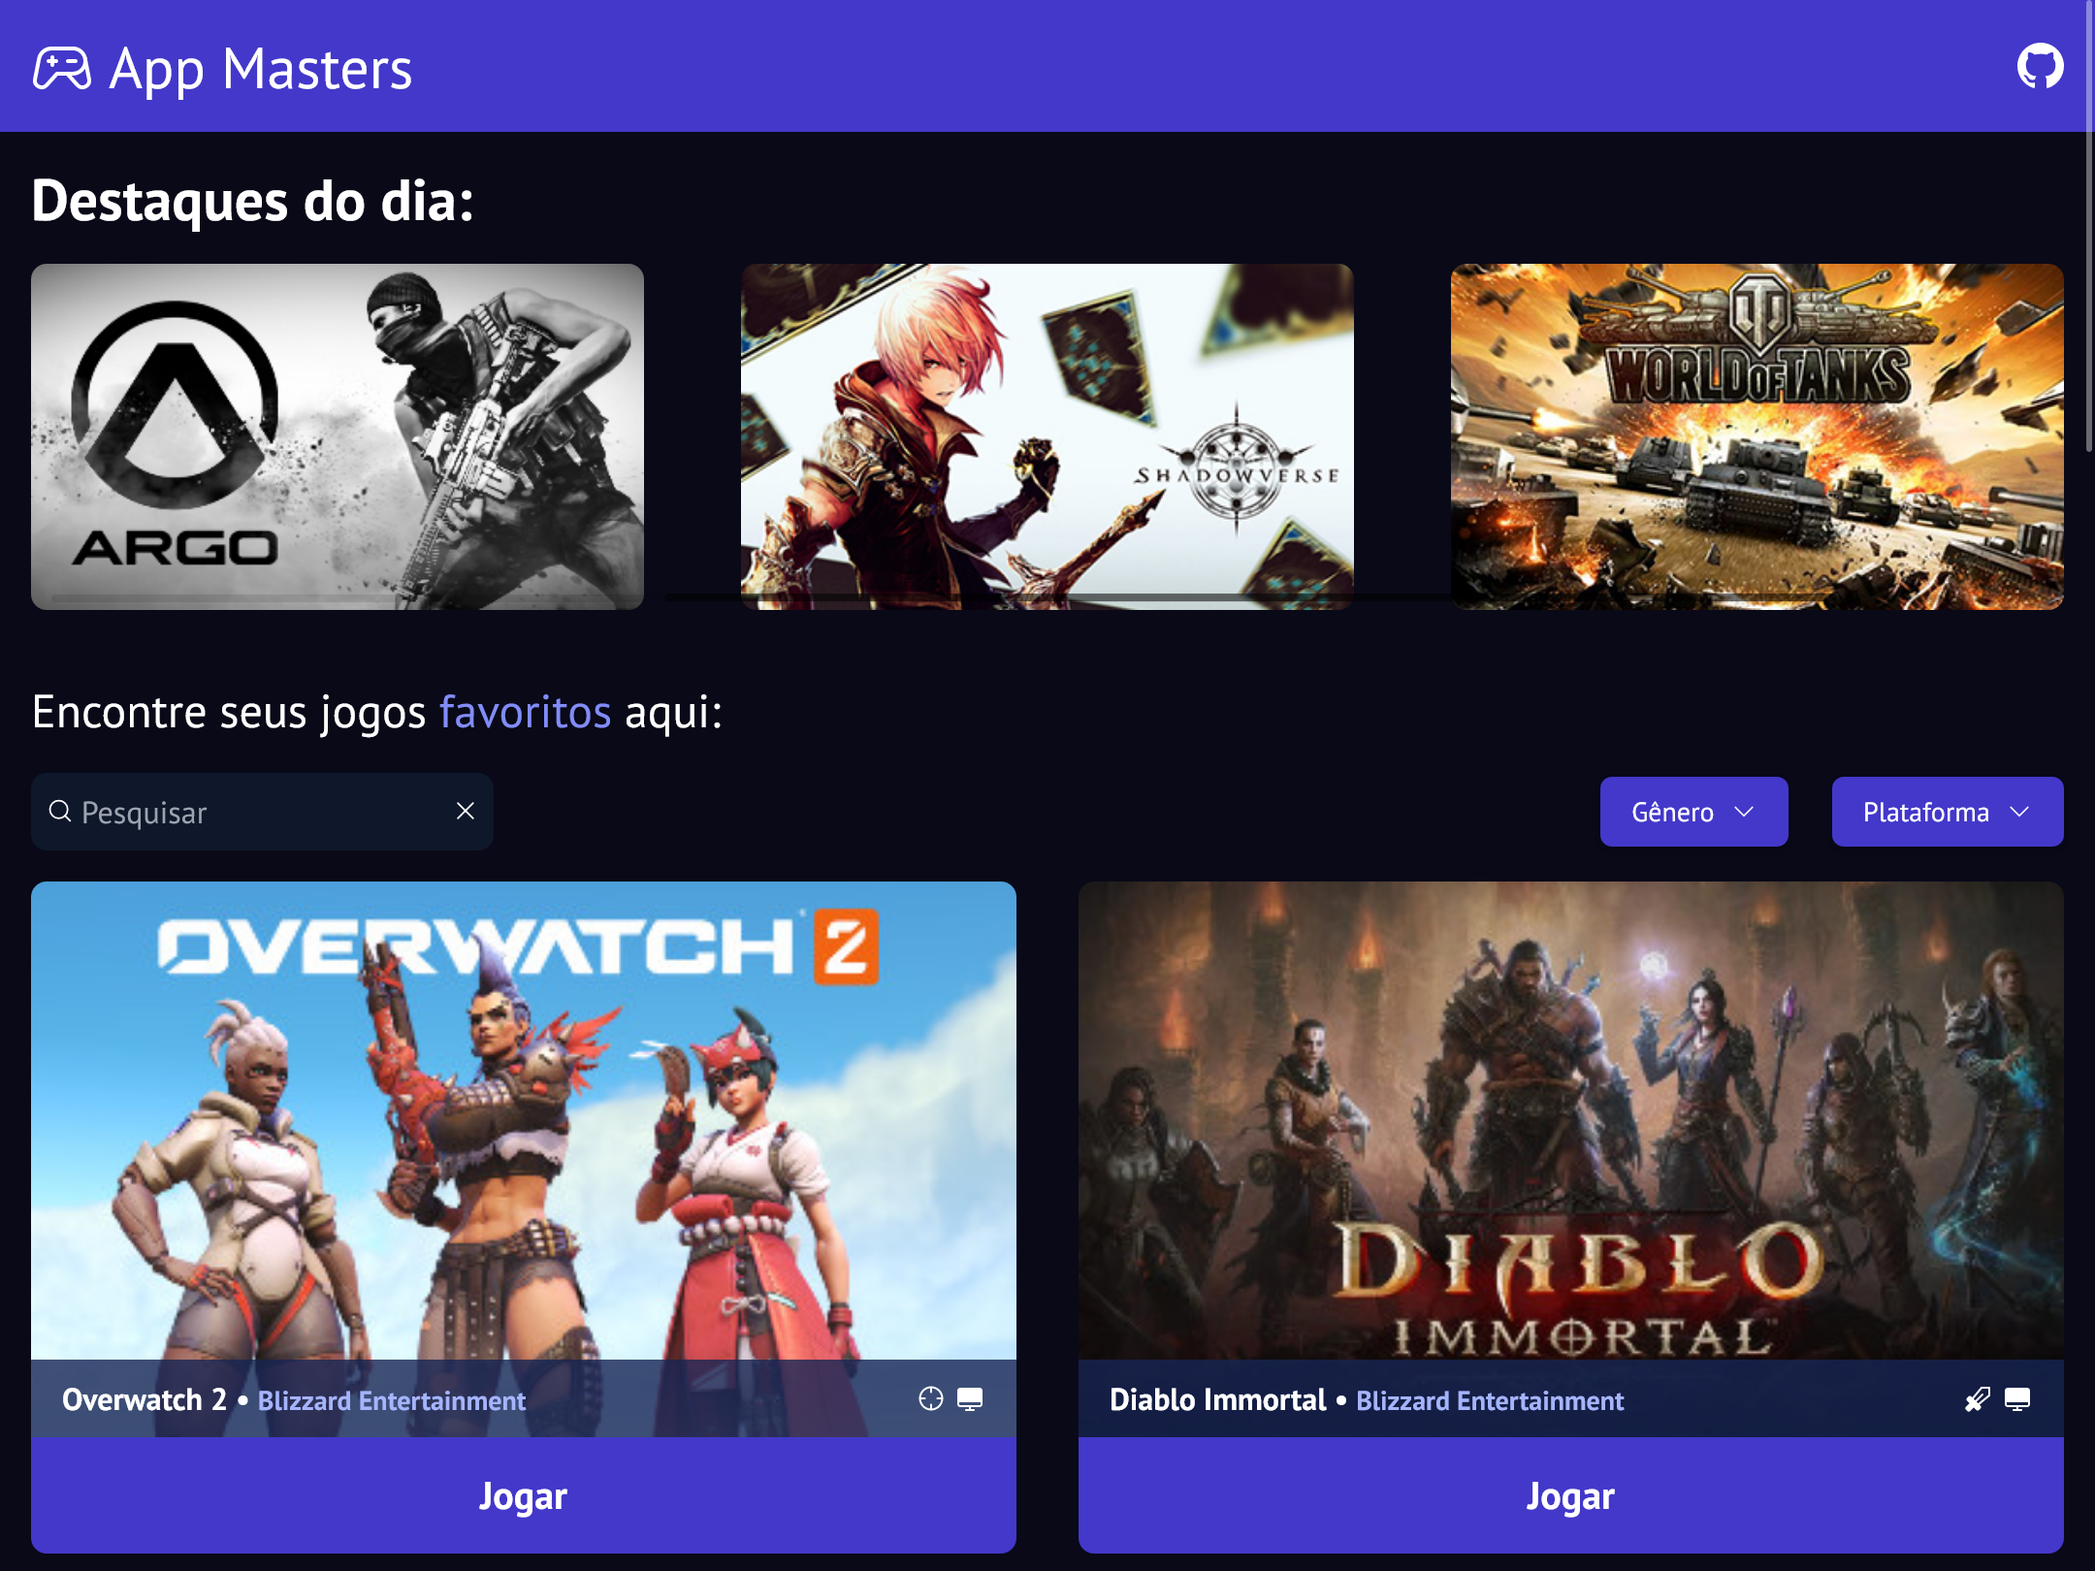
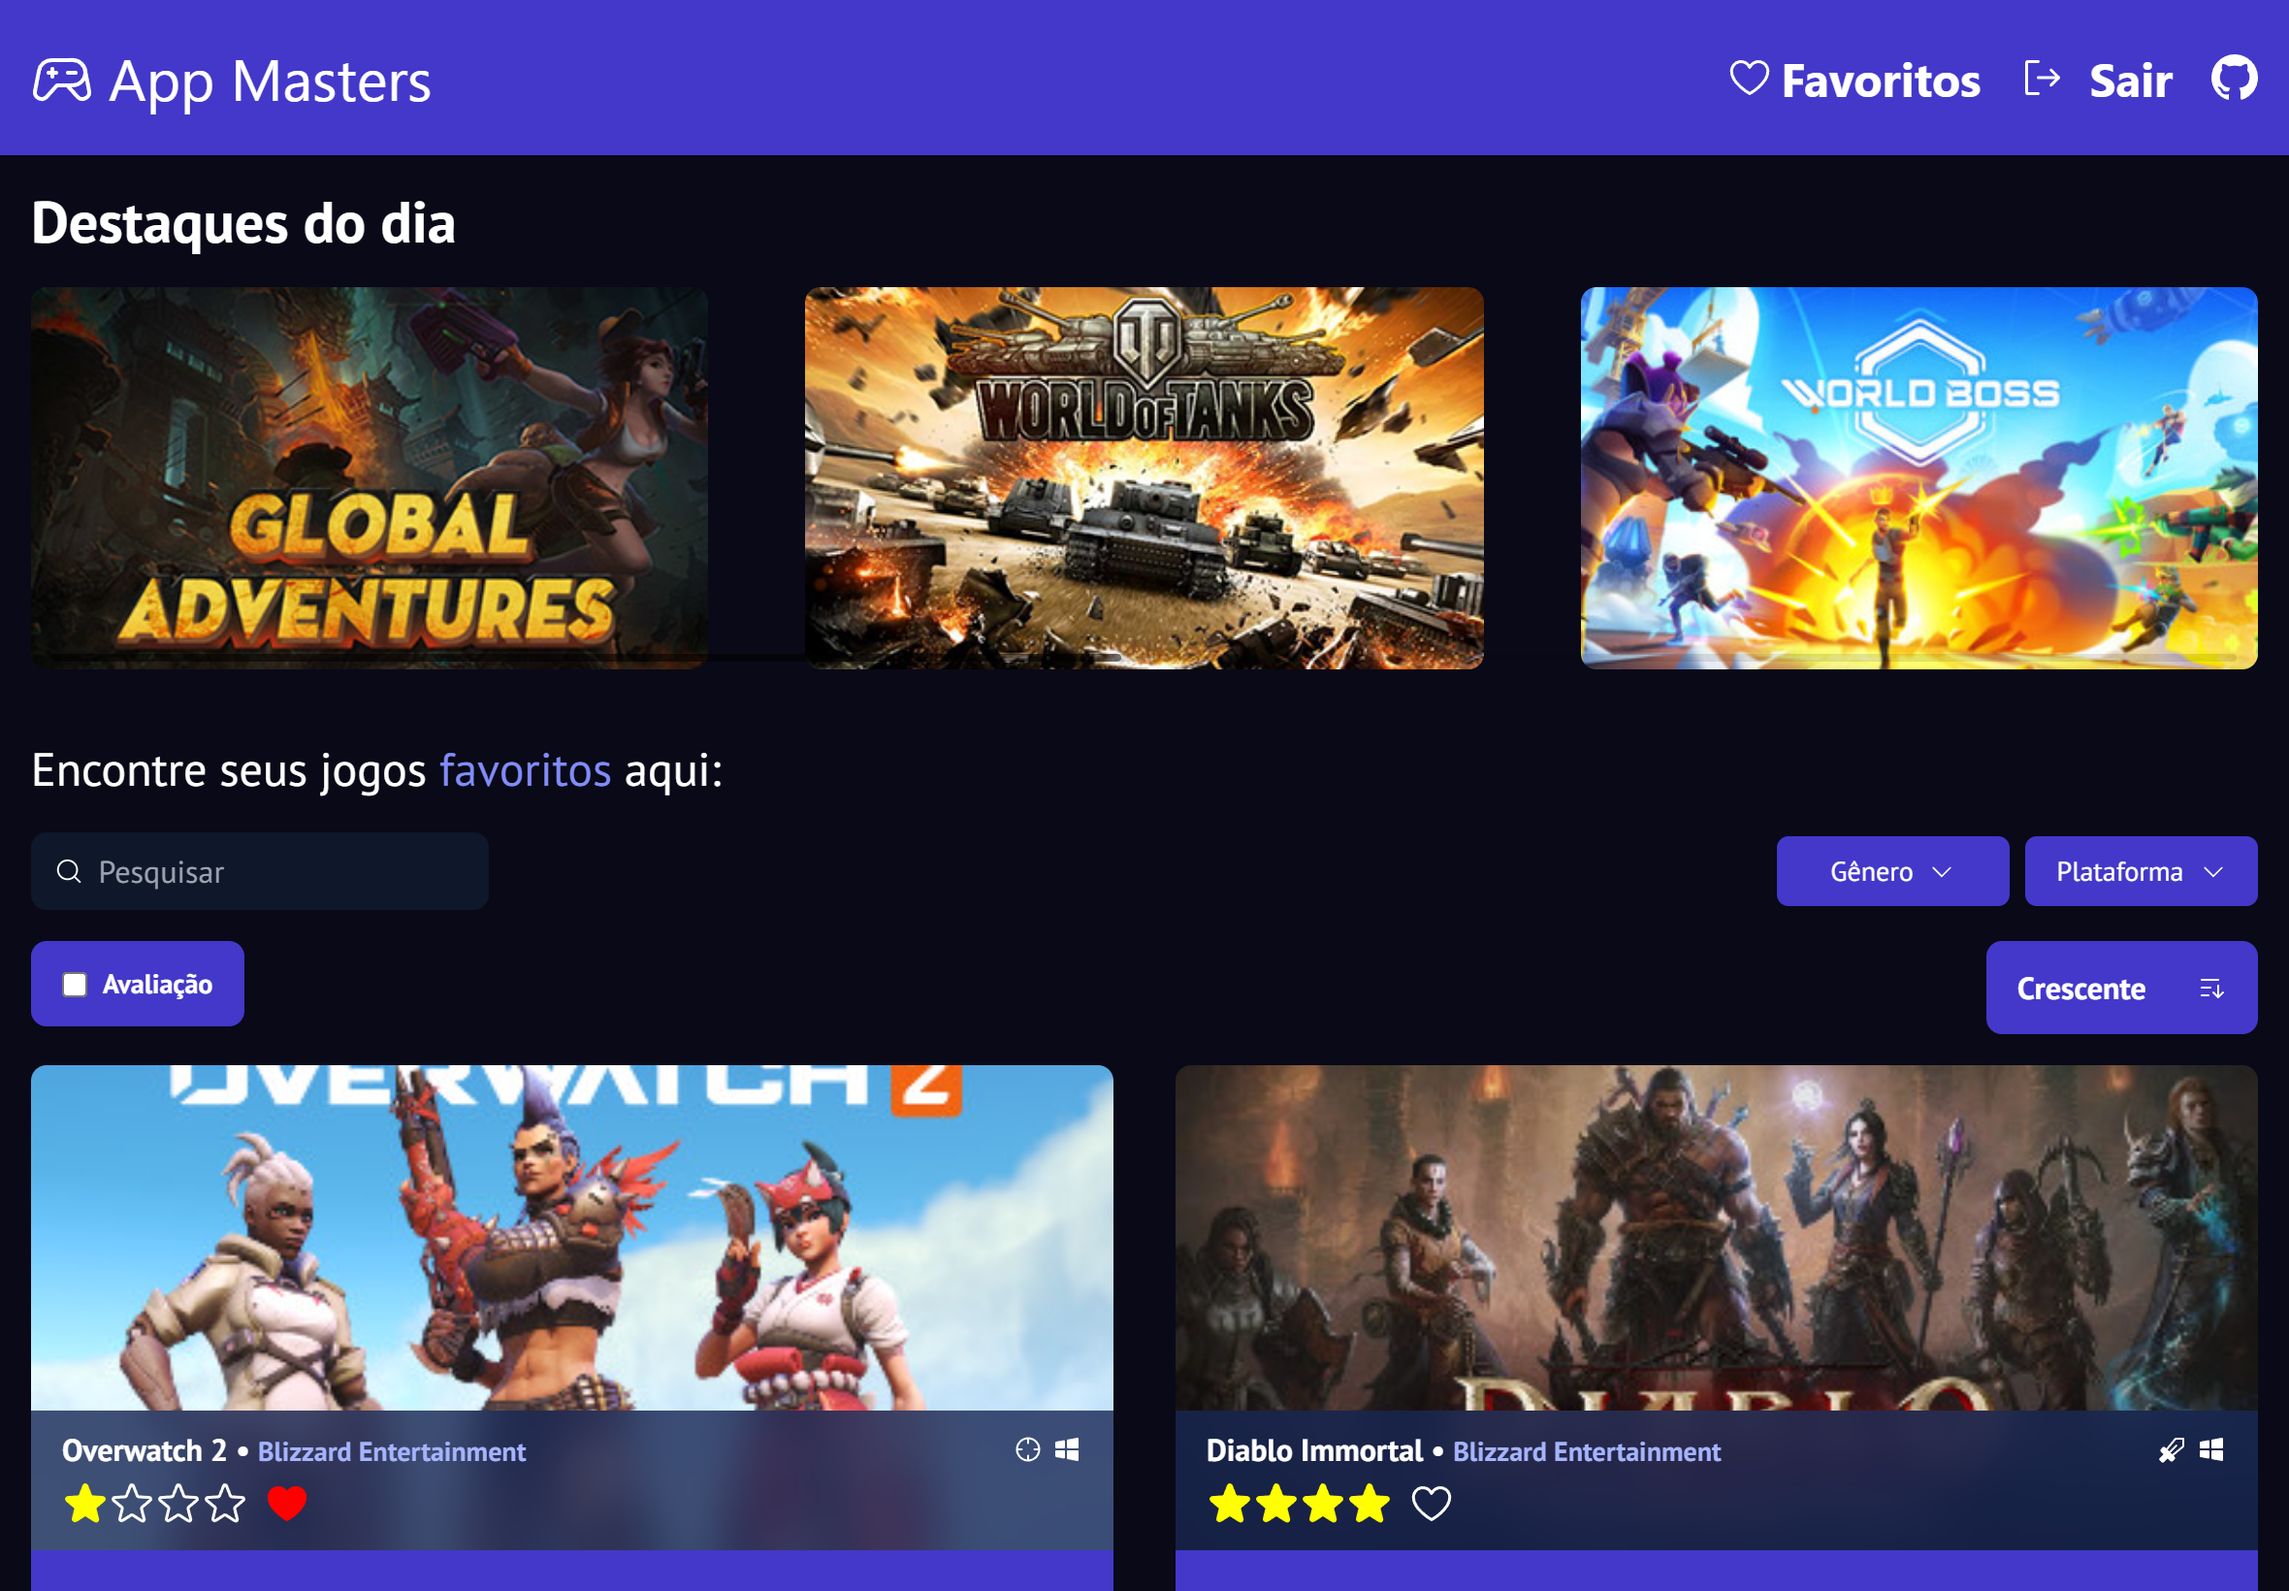
Atualização no readme.md

diff --git a/README.md b/README.md
@@ -4,7 +4,7 @@ Implementação de frontend em api de jogos App Masters.
 
 ## Tecnologias
 
-[Next.js](https://nextjs.org/) • [Typescript](https://www.typescriptlang.org/) • [TailwindCSS](https://tailwindcss.com/) • [Phosphor Icons](https://phosphoricons.com/) • [React Spinners](https://www.davidhu.io/react-spinners/) • [Swiper](https://swiperjs.com/)
+[Next.js](https://nextjs.org/) • [Typescript](https://www.typescriptlang.org/) • [TailwindCSS](https://tailwindcss.com/) • [Phosphor Icons](https://phosphoricons.com/) • [React Spinners](https://www.davidhu.io/react-spinners/) • [Swiper](https://swiperjs.com/) • [Firebase](https://firebase.google.com/)
 
 ## Exemplos
 
@@ -31,6 +31,8 @@ Implementação de frontend em api de jogos App Masters.
 
 ## Requisitos
 
+### Parte 1
+
 - [x] O projeto deve ser feito usando React ou Next.JS
 - [x] Obter a lista de jogos em `/data`
 - [x] Apresentar um loader enquanto os dados são obtidos
@@ -43,3 +45,18 @@ Implementação de frontend em api de jogos App Masters.
 - [x] Incluir um campo de busca, que permite localizar jogos pelo título, com busca case insensitive
 - [x] Uma vez que tenha os dados em mãos, veja quais `genre` foram retornados e permita ao usuário selecionar um deles, e então filtre para exibir apenas jogos do gênero selecionado
 - [x] Lidar com a responsividade, para que fique bem apresentado no computador, tablets ou celular
+
+### Parte 2
+
+- [x] Utilizar Firebase para realizar autenticação usando email/senha
+- [x] Ter um ♥ para o usuário favoritar o jogo diretamente na lista, ficando vermelho quando marcado
+- [x] Salvar no firebase os jogos favoritos do usuário, no realtime ou firestore
+- [x] Ter um botão “Favoritos” que apresenta apenas jogos favoritados, permitindo ainda buscar e filtrar estes jogos. Pode ser na própria lista já apresentada ou em uma separada se preferir.
+- [x] Ao lado do coração, ter ★★★★ para o usuário avaliar o jogo, podendo marcar de uma em uma. Ou seja, ele pode escolher 1, 2, 3 ou as 4.
+- [x] Ter uma forma de ordenar por avaliação, vendo os melhores (ou piores) primeiro, clicando novamente para inverter a ordem.
+- [x] Ao carregar a interface, deixar o ❤ vermelho para os itens favoritos e as ⭐ amarelas nos itens avaliados
+- [x] Ao acessar sem estar autenticado, os ícones ♥ e ★ deverão estar visíveis, mas ao clicar irá solicitar a autenticação
+- [x] 👉 Ao obter os jogos da API e os dados do firebase, apresentar. Manter o loading para os jogos. Não precisa de loading enquanto espera o firebase, até porque o firebase devolverá os dados mais rapidamente e pode ser complicado “esperar o firebase” se estiver “escutando o firebase”.
+- [x] A autenticação deve acontecer na rota `/auth/` do frontend, usando o provedor “E-mail/senha” do firebase, onde o usuário poderá criar uma conta ou acessar a conta já existente (se mantendo apenas nesta rota)
+- [x] Escolher um item para aplicar uma animação com CSS, pode ser ao favoritar, ou avaliar, ou quando os itens surgirem
+- [x] Publicar seu projeto online para testarmos (na mesma url de antes)
